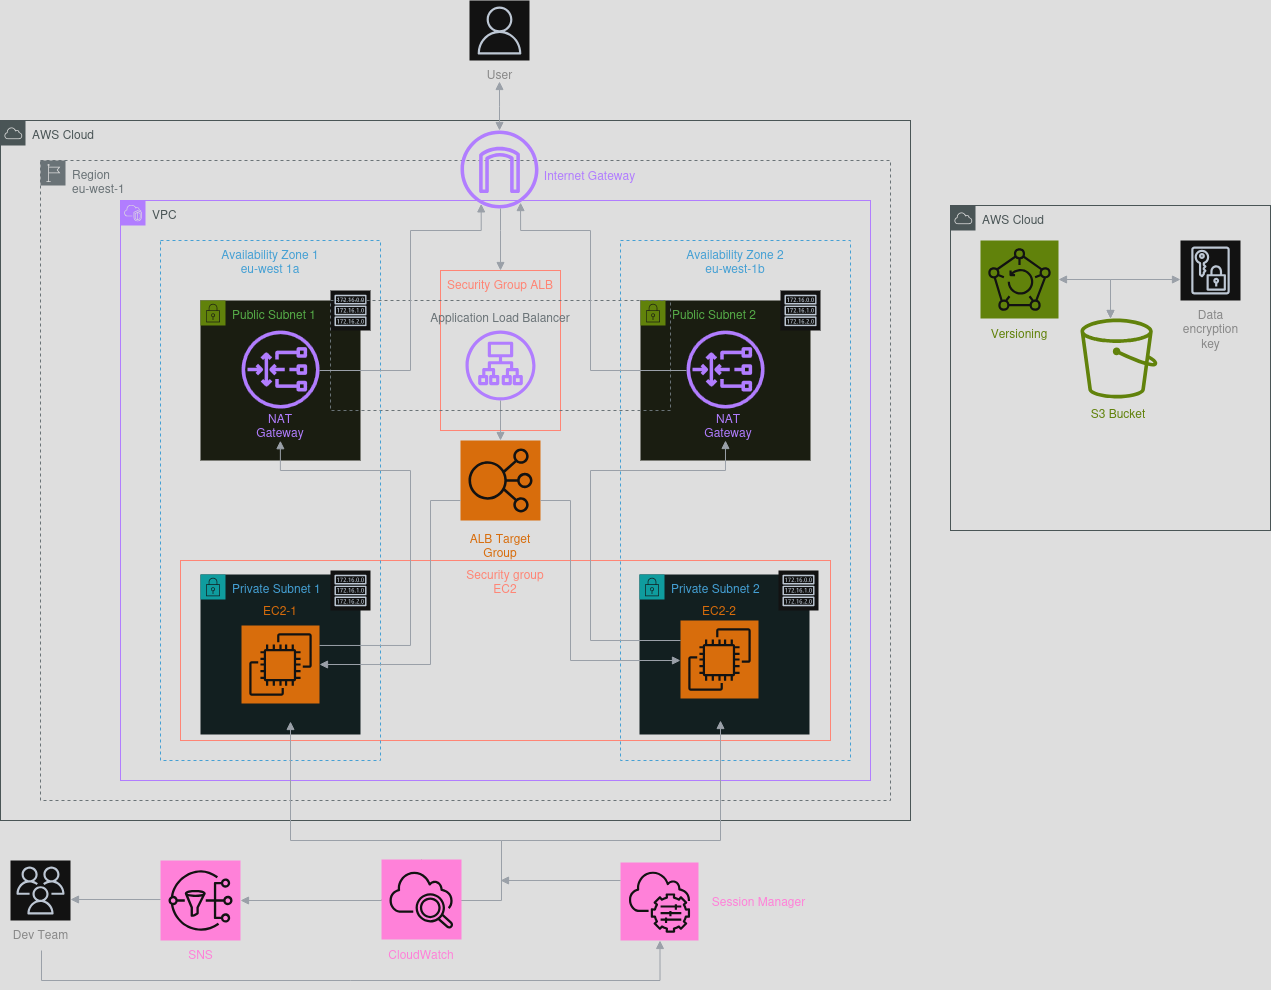
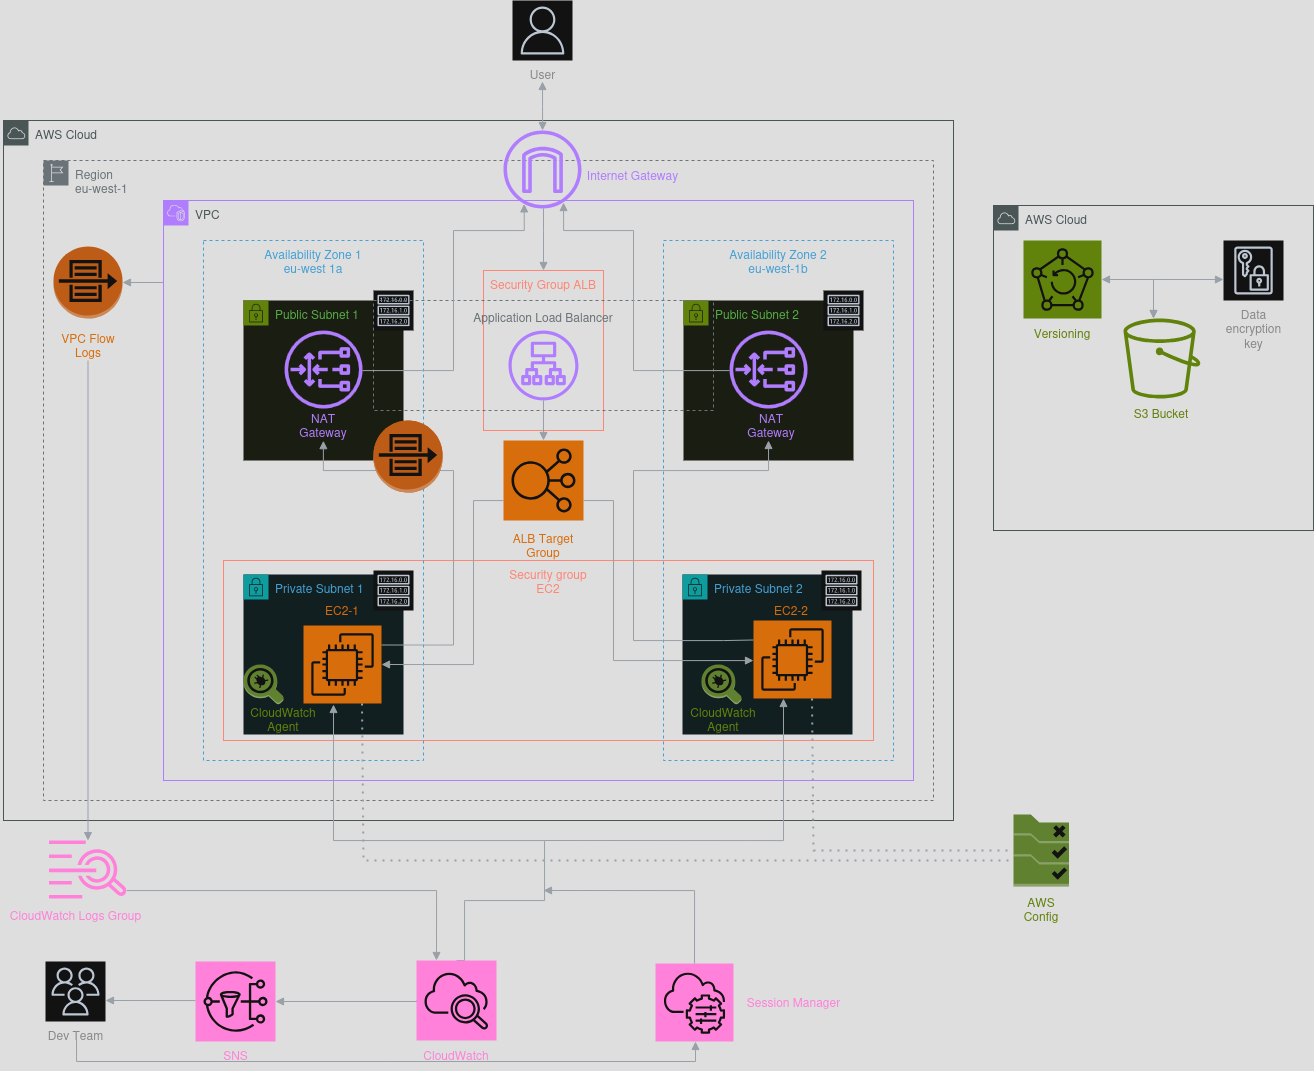
Uodate documentation

diff --git a/README.md b/README.md
@@ -10,6 +10,7 @@ This project uses **Terraform** to provision an AWS environment, broken into log
 ![Architecture diagram](./docs/diagram.png)
 
 ---
+### 2.5.2025
 
 ## Networking
 
@@ -91,6 +92,26 @@ This project uses **Terraform** to provision an AWS environment, broken into log
 - Remote state stored in **S3** (with versioning and SSE-KMS encryption)  
 - State locking **without DynamoDB** using S3 native locking
 
+### 5.5.2025
+
+## VPC Flow Logs into CloudWatch
+- Enabled VPC Flow Logs for the entire VPC.
+- CloudWatch Logs group with a retention period set to **3 days**.
+
+## EC2 CloudWatch Agent
+- Installed CloudWatch Agent on EC2 instances via SSM.
+- Monitored Metrics: `mem_used_percent`, `disk_used_percent`
+- Config stored in **SSM Parameter Store**
+- Installed via **SSM Document** + **Association**
+
+## EC2 Status Check Alarm
+- Ensures the instance is healthy on OS level.
+- **Configured** similarly to other alarms with SNS alerting.
+
+## AWS Config Rule – Required Tags
+-  Enforce consistent tagging, applied on the two EC2 instances
+- Tags enforced: `Name`
+
 ---
 
 ## IaC
@@ -123,6 +144,14 @@ This project uses **Terraform** to provision an AWS environment, broken into log
 │   │   ├── main.tf
 │   │   ├── variables.tf      # Inputs: vpc_id, public_subnet_ids, security_group_id, target_ids
 │   │   └── outputs.tf        # Outputs: alb_dns_name, target_group_arn
+│   ├── logging/              # Module for logging setup
+│   │   ├── main.tf
+│   │   ├── variables.tf      # Inputs: vpc_id, iam_role_arn
+│   │   └── outputs.tf        
+│   ├── config/               # Module for infrastructure configuration
+│   │   ├── main.tf
+│   │   ├── variables.tf      
+│   │   └── outputs.tf        # Outputs: config_rule_name, config_rule_id, config_rule_arn, config_rule_description
 │   └── monitoring/           # Module for CloudWatch alarms & SNS notifications
 │       ├── main.tf
 │       ├── variables.tf      # Inputs: instance_ids, email_addresses
@@ -135,7 +164,7 @@ This project uses **Terraform** to provision an AWS environment, broken into log
 
 # Deploying
 ```
-terraform init     # Initializes backend
+terraform init     # Initializes working directory
 terraform plan     # Shows what will be created
 terraform apply    # Deploys resources
 ```
@@ -157,17 +186,14 @@ terraform destroy
 
 ## Requirements
 
-| Name                                                                       | Version  |
-|----------------------------------------------------------------------------|----------|
-| <a name="requirement_terraform"></a> [terraform](#requirement\_terraform)  | >= 1.5.0 |
-| <a name="requirement_aws"></a> [aws](#requirement\_aws)                    | ~> 5.81  |
+| Name | Version |
+|------|---------|
+| <a name="requirement_terraform"></a> [terraform](#requirement\_terraform) | >= 1.5.0 |
+| <a name="requirement_aws"></a> [aws](#requirement\_aws) | ~> 5.81 |
 
 ## Providers
 
-
-| Name | Version |
-|------|---------|
-| <a name="provider_aws"></a> [aws](#provider\_aws) | 5.81.0 |
+No providers.
 
 ## Modules
 
@@ -175,7 +201,9 @@ terraform destroy
 |------|--------|---------|
 | <a name="module_alb"></a> [alb](#module\_alb) | ./modules/alb | n/a |
 | <a name="module_compute"></a> [compute](#module\_compute) | ./modules/compute | n/a |
+| <a name="module_config"></a> [config](#module\_config) | ./modules/config | n/a |
 | <a name="module_iam"></a> [iam](#module\_iam) | ./modules/iam | n/a |
+| <a name="module_logging"></a> [logging](#module\_logging) | ./modules/logging | n/a |
 | <a name="module_monitoring"></a> [monitoring](#module\_monitoring) | ./modules/monitoring | n/a |
 | <a name="module_networking"></a> [networking](#module\_networking) | ./modules/networking | n/a |
 | <a name="module_security"></a> [security](#module\_security) | ./modules/security | n/a |
@@ -207,15 +235,17 @@ No resources.
 |------|-------------|
 | <a name="output_alb_dns_name"></a> [alb\_dns\_name](#output\_alb\_dns\_name) | DNS name of the Application Load Balancer |
 | <a name="output_alb_sg_id"></a> [alb\_sg\_id](#output\_alb\_sg\_id) | Security Group ID for the Application Load Balancer |
+| <a name="output_ec2_role_arn"></a> [ec2\_role\_arn](#output\_ec2\_role\_arn) | ARN of the IAM role for EC2 instances |
 | <a name="output_ec2_sg_id"></a> [ec2\_sg\_id](#output\_ec2\_sg\_id) | Security Group ID for EC2 instances |
+| <a name="output_flow_logs_role_arn"></a> [flow\_logs\_role\_arn](#output\_flow\_logs\_role\_arn) | ARN of the IAM role for flow logs |
 | <a name="output_instance_ids"></a> [instance\_ids](#output\_instance\_ids) | List of EC2 instance IDs |
+| <a name="output_instance_ips"></a> [instance\_ips](#output\_instance\_ips) | List of EC2 instance IPs |
 | <a name="output_instance_profile"></a> [instance\_profile](#output\_instance\_profile) | Name of the IAM Instance Profile attached to EC2 |
 | <a name="output_internet_gateway_id"></a> [internet\_gateway\_id](#output\_internet\_gateway\_id) | ID of the Internet Gateway |
 | <a name="output_nat_gateway_ids"></a> [nat\_gateway\_ids](#output\_nat\_gateway\_ids) | List of NAT Gateway IDs |
 | <a name="output_private_ips"></a> [private\_ips](#output\_private\_ips) | Private IP addresses of the EC2 instances |
 | <a name="output_private_subnet_ids"></a> [private\_subnet\_ids](#output\_private\_subnet\_ids) | List of private subnet IDs |
 | <a name="output_public_subnet_ids"></a> [public\_subnet\_ids](#output\_public\_subnet\_ids) | List of public subnet IDs |
-| <a name="output_role_arn"></a> [role\_arn](#output\_role\_arn) | ARN of the IAM role for EC2 instances |
 | <a name="output_sns_topic_arn"></a> [sns\_topic\_arn](#output\_sns\_topic\_arn) | ARN of the SNS topic for CloudWatch alerts |
 | <a name="output_target_group_arn"></a> [target\_group\_arn](#output\_target\_group\_arn) | ARN of the ALB target group |
 | <a name="output_vpc_id"></a> [vpc\_id](#output\_vpc\_id) | ID of the created VPC |

diff --git a/modules/monitoring/README.md b/modules/monitoring/README.md
@@ -20,9 +20,18 @@ No modules.
 | Name | Type |
 |------|------|
 | [aws_cloudwatch_metric_alarm.ec2_1_cpu](https://registry.terraform.io/providers/hashicorp/aws/latest/docs/resources/cloudwatch_metric_alarm) | resource |
+| [aws_cloudwatch_metric_alarm.ec2_1_disk](https://registry.terraform.io/providers/hashicorp/aws/latest/docs/resources/cloudwatch_metric_alarm) | resource |
+| [aws_cloudwatch_metric_alarm.ec2_1_mem](https://registry.terraform.io/providers/hashicorp/aws/latest/docs/resources/cloudwatch_metric_alarm) | resource |
+| [aws_cloudwatch_metric_alarm.ec2_1_status_check](https://registry.terraform.io/providers/hashicorp/aws/latest/docs/resources/cloudwatch_metric_alarm) | resource |
 | [aws_cloudwatch_metric_alarm.ec2_2_cpu](https://registry.terraform.io/providers/hashicorp/aws/latest/docs/resources/cloudwatch_metric_alarm) | resource |
+| [aws_cloudwatch_metric_alarm.ec2_2_disk](https://registry.terraform.io/providers/hashicorp/aws/latest/docs/resources/cloudwatch_metric_alarm) | resource |
+| [aws_cloudwatch_metric_alarm.ec2_2_mem](https://registry.terraform.io/providers/hashicorp/aws/latest/docs/resources/cloudwatch_metric_alarm) | resource |
+| [aws_cloudwatch_metric_alarm.ec2_2_status_check](https://registry.terraform.io/providers/hashicorp/aws/latest/docs/resources/cloudwatch_metric_alarm) | resource |
 | [aws_sns_topic.sns_topic](https://registry.terraform.io/providers/hashicorp/aws/latest/docs/resources/sns_topic) | resource |
 | [aws_sns_topic_subscription.topic_email_sub](https://registry.terraform.io/providers/hashicorp/aws/latest/docs/resources/sns_topic_subscription) | resource |
+| [aws_ssm_association.cw_agent_association](https://registry.terraform.io/providers/hashicorp/aws/latest/docs/resources/ssm_association) | resource |
+| [aws_ssm_document.cw_agent_install](https://registry.terraform.io/providers/hashicorp/aws/latest/docs/resources/ssm_document) | resource |
+| [aws_ssm_parameter.cw_agent_config](https://registry.terraform.io/providers/hashicorp/aws/latest/docs/resources/ssm_parameter) | resource |
 
 ## Inputs
 
@@ -35,4 +44,10 @@ No modules.
 
 | Name | Description |
 |------|-------------|
-| <a name="output_sns_topic_arn"></a> [sns\_topic\_arn](#output\_sns\_topic\_arn) | ARN of the SNS topic used for CloudWatch alerts |
+| <a name="output_cloudwatch_cpu_alarms"></a> [cloudwatch\_cpu\_alarms](#output\_cloudwatch\_cpu\_alarms) | CloudWatch CPU alarms per EC2 instance |
+| <a name="output_cloudwatch_disk_alarms"></a> [cloudwatch\_disk\_alarms](#output\_cloudwatch\_disk\_alarms) | CloudWatch disk usage alarms per EC2 instance |
+| <a name="output_cloudwatch_memory_alarms"></a> [cloudwatch\_memory\_alarms](#output\_cloudwatch\_memory\_alarms) | CloudWatch memory usage alarms per EC2 instance |
+| <a name="output_cloudwatch_ssm_association_id"></a> [cloudwatch\_ssm\_association\_id](#output\_cloudwatch\_ssm\_association\_id) | SSM Association ID for CloudWatch Agent deployment |
+| <a name="output_cloudwatch_ssm_document_name"></a> [cloudwatch\_ssm\_document\_name](#output\_cloudwatch\_ssm\_document\_name) | SSM document for installing CloudWatch Agent |
+| <a name="output_cloudwatch_ssm_parameter_name"></a> [cloudwatch\_ssm\_parameter\_name](#output\_cloudwatch\_ssm\_parameter\_name) | SSM parameter name for CloudWatch Agent config |
+| <a name="output_sns_topic_arn"></a> [sns\_topic\_arn](#output\_sns\_topic\_arn) | SNS Topic ARN used for CloudWatch alarms |

diff --git a/modules/iam/README.md b/modules/iam/README.md
@@ -20,8 +20,12 @@ No modules.
 | Name | Type |
 |------|------|
 | [aws_iam_instance_profile.ssm_instance_profile](https://registry.terraform.io/providers/hashicorp/aws/latest/docs/resources/iam_instance_profile) | resource |
+| [aws_iam_policy.vpc_flow_logs_policy](https://registry.terraform.io/providers/hashicorp/aws/latest/docs/resources/iam_policy) | resource |
 | [aws_iam_role.ssm_ec2_role](https://registry.terraform.io/providers/hashicorp/aws/latest/docs/resources/iam_role) | resource |
+| [aws_iam_role.vpc_flow_logs_role](https://registry.terraform.io/providers/hashicorp/aws/latest/docs/resources/iam_role) | resource |
+| [aws_iam_role_policy_attachment.cloudwatch_agent_policy](https://registry.terraform.io/providers/hashicorp/aws/latest/docs/resources/iam_role_policy_attachment) | resource |
 | [aws_iam_role_policy_attachment.ssm-policy](https://registry.terraform.io/providers/hashicorp/aws/latest/docs/resources/iam_role_policy_attachment) | resource |
+| [aws_iam_role_policy_attachment.vpc_flow_logs_attach](https://registry.terraform.io/providers/hashicorp/aws/latest/docs/resources/iam_role_policy_attachment) | resource |
 
 ## Inputs
 
@@ -31,5 +35,6 @@ No inputs.
 
 | Name | Description |
 |------|-------------|
+| <a name="output_ec2_role_arn"></a> [ec2\_role\_arn](#output\_ec2\_role\_arn) | ARN of the IAM role attached to EC2 instances |
+| <a name="output_flow_logs_role_arn"></a> [flow\_logs\_role\_arn](#output\_flow\_logs\_role\_arn) | ARN of the IAM role attached to Flow Logs |
 | <a name="output_instance_profile"></a> [instance\_profile](#output\_instance\_profile) | Name of the IAM Instance Profile for EC2 |
-| <a name="output_role_arn"></a> [role\_arn](#output\_role\_arn) | ARN of the IAM role attached to EC2 instances |

diff --git a/modules/networking/README.md b/modules/networking/README.md
@@ -29,8 +29,8 @@ No modules.
 | [aws_route_table.public_subnet_rt](https://registry.terraform.io/providers/hashicorp/aws/latest/docs/resources/route_table) | resource |
 | [aws_route_table_association.private_subnet_assoc-1](https://registry.terraform.io/providers/hashicorp/aws/latest/docs/resources/route_table_association) | resource |
 | [aws_route_table_association.private_subnet_assoc_2](https://registry.terraform.io/providers/hashicorp/aws/latest/docs/resources/route_table_association) | resource |
-| [aws_route_table_association.public_subnet_assoc-2](https://registry.terraform.io/providers/hashicorp/aws/latest/docs/resources/route_table_association) | resource |
 | [aws_route_table_association.public_subnet_assoc_1](https://registry.terraform.io/providers/hashicorp/aws/latest/docs/resources/route_table_association) | resource |
+| [aws_route_table_association.public_subnet_assoc_2](https://registry.terraform.io/providers/hashicorp/aws/latest/docs/resources/route_table_association) | resource |
 | [aws_subnet.private_subnet_1](https://registry.terraform.io/providers/hashicorp/aws/latest/docs/resources/subnet) | resource |
 | [aws_subnet.private_subnet_2](https://registry.terraform.io/providers/hashicorp/aws/latest/docs/resources/subnet) | resource |
 | [aws_subnet.public_subnet_1](https://registry.terraform.io/providers/hashicorp/aws/latest/docs/resources/subnet) | resource |

diff --git a/modules/config/README.md b/modules/config/README.md
@@ -1,0 +1,35 @@
+## Requirements
+
+| Name | Version |
+|------|---------|
+| <a name="requirement_terraform"></a> [terraform](#requirement\_terraform) | >= 1.5.0 |
+| <a name="requirement_aws"></a> [aws](#requirement\_aws) | ~> 5.81 |
+
+## Providers
+
+| Name | Version |
+|------|---------|
+| <a name="provider_aws"></a> [aws](#provider\_aws) | ~> 5.81 |
+
+## Modules
+
+No modules.
+
+## Resources
+
+| Name | Type |
+|------|------|
+| [aws_config_config_rule.required_tags](https://registry.terraform.io/providers/hashicorp/aws/latest/docs/resources/config_config_rule) | resource |
+
+## Inputs
+
+No inputs.
+
+## Outputs
+
+| Name | Description |
+|------|-------------|
+| <a name="output_config_rule_arn"></a> [config\_rule\_arn](#output\_config\_rule\_arn) | The ARN of the AWS Config rule |
+| <a name="output_config_rule_description"></a> [config\_rule\_description](#output\_config\_rule\_description) | The description of the AWS Config rule |
+| <a name="output_config_rule_id"></a> [config\_rule\_id](#output\_config\_rule\_id) | The ID of the AWS Config rule |
+| <a name="output_config_rule_name"></a> [config\_rule\_name](#output\_config\_rule\_name) | The name of the AWS Config rule |

diff --git a/modules/logging/README.md b/modules/logging/README.md
@@ -1,0 +1,31 @@
+## Requirements
+
+No requirements.
+
+## Providers
+
+| Name | Version |
+|------|---------|
+| <a name="provider_aws"></a> [aws](#provider\_aws) | n/a |
+
+## Modules
+
+No modules.
+
+## Resources
+
+| Name | Type |
+|------|------|
+| [aws_cloudwatch_log_group.vpc_flow_log_group](https://registry.terraform.io/providers/hashicorp/aws/latest/docs/resources/cloudwatch_log_group) | resource |
+| [aws_flow_log.vpc_flow_log](https://registry.terraform.io/providers/hashicorp/aws/latest/docs/resources/flow_log) | resource |
+
+## Inputs
+
+| Name | Description | Type | Default | Required |
+|------|-------------|------|---------|:--------:|
+| <a name="input_iam_role_arn"></a> [iam\_role\_arn](#input\_iam\_role\_arn) | n/a | `string` | n/a | yes |
+| <a name="input_vpc_id"></a> [vpc\_id](#input\_vpc\_id) | n/a | `string` | n/a | yes |
+
+## Outputs
+
+No outputs.
